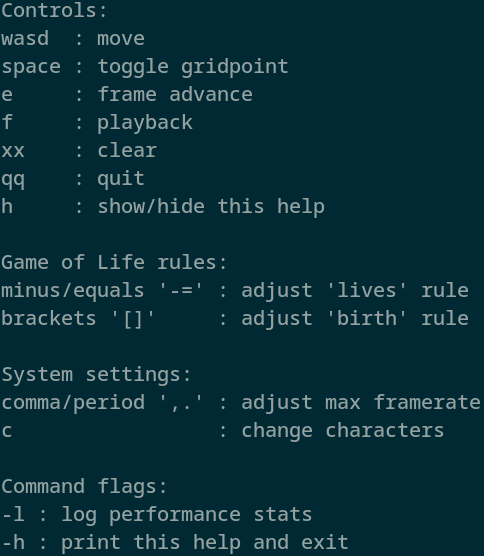
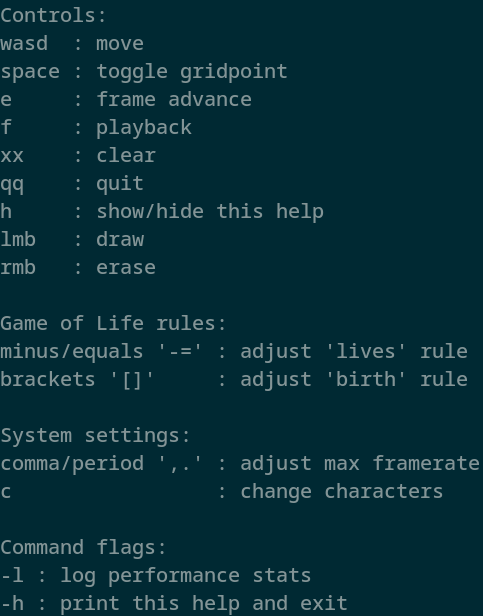
Added mouse event controls
Left mouse button to drag, right mouse button to erase. Code little
repetative, not really large enough to warrant redoing.

diff --git a/src/main.rs b/src/main.rs
@@ -5,7 +5,8 @@ use crossterm::{
     ExecutableCommand, QueueableCommand,
     queue,
     cursor,
-    event::{Event, KeyEvent, KeyCode, read, poll},
+    event,
+    event::{Event, KeyEvent, KeyCode, MouseEvent, MouseButton, read, poll},
     style::Print,
     terminal,
 };
@@ -183,6 +184,8 @@ f     : playback
 xx    : clear
 qq    : quit
 h     : show/hide this help
+lmb   : draw
+rmb   : erase
 
 Game of Life rules:
 minus/equals '-=' : adjust 'lives' rule
@@ -224,6 +227,7 @@ fn main() {
         terminal::EnterAlternateScreen,
         cursor::MoveTo(cols/2, rows/2),
         cursor::DisableBlinking,
+        event::EnableMouseCapture,
         ).unwrap();
 
     // game data
@@ -456,6 +460,40 @@ fn main() {
                 redraw_all!();
             }
 
+            // mouse click/drag
+            Some(Event::Mouse(MouseEvent::Down(button, col, row, _))) => {
+                if row >= rows-1 {continue}
+                let col = col as usize;
+                let row = row as usize;
+                match button {
+                    MouseButton::Middle => (),
+                    _ => {
+                        // click
+                        if (!matrix[row][col] && button == MouseButton::Left) ||
+                           (matrix[row][col] && button == MouseButton::Right) {
+                                grid_toggle(&mut matrix, col, row);
+                                redraw_all!();
+                        }
+                        // drag
+                        loop {
+                            match get_event(None) {
+                                Some(Event::Mouse(MouseEvent::Drag(button, col, row, _))) => {
+                                    if row >= rows-1 {break}
+                                    let col = col as usize;
+                                    let row = row as usize;
+                                    if (!matrix[row][col] && button == MouseButton::Left) ||
+                                       (matrix[row][col] && button == MouseButton::Right) {
+                                            grid_toggle(&mut matrix, col, row);
+                                            redraw_all!();
+                                    }
+                                }
+                                _ => break,
+                            }
+                        }
+                    }
+                }
+            }
+
             // show/hide help.
             Some(KE!('h')) => {
                 show_help!();
@@ -475,7 +513,12 @@ fn main() {
     } // loop end
 
     // cleanup
-    stdo.execute(terminal::LeaveAlternateScreen).unwrap();
+    queue!(
+        stdo,
+        terminal::LeaveAlternateScreen,
+        event::DisableMouseCapture,
+        ).unwrap();
+    stdo.flush().unwrap();
     terminal::disable_raw_mode().unwrap();
 
     if log {

diff --git a/README.md b/README.md
@@ -1,4 +1,4 @@
-# cursed_life 1.0.1
+# cursed_life 1.1.0
 Basically game of life in tui. Pretty basic, more of a small Rust exercise than anything.
 
 First version was based in ncurses, hence the name. Now uses Crossterm.
